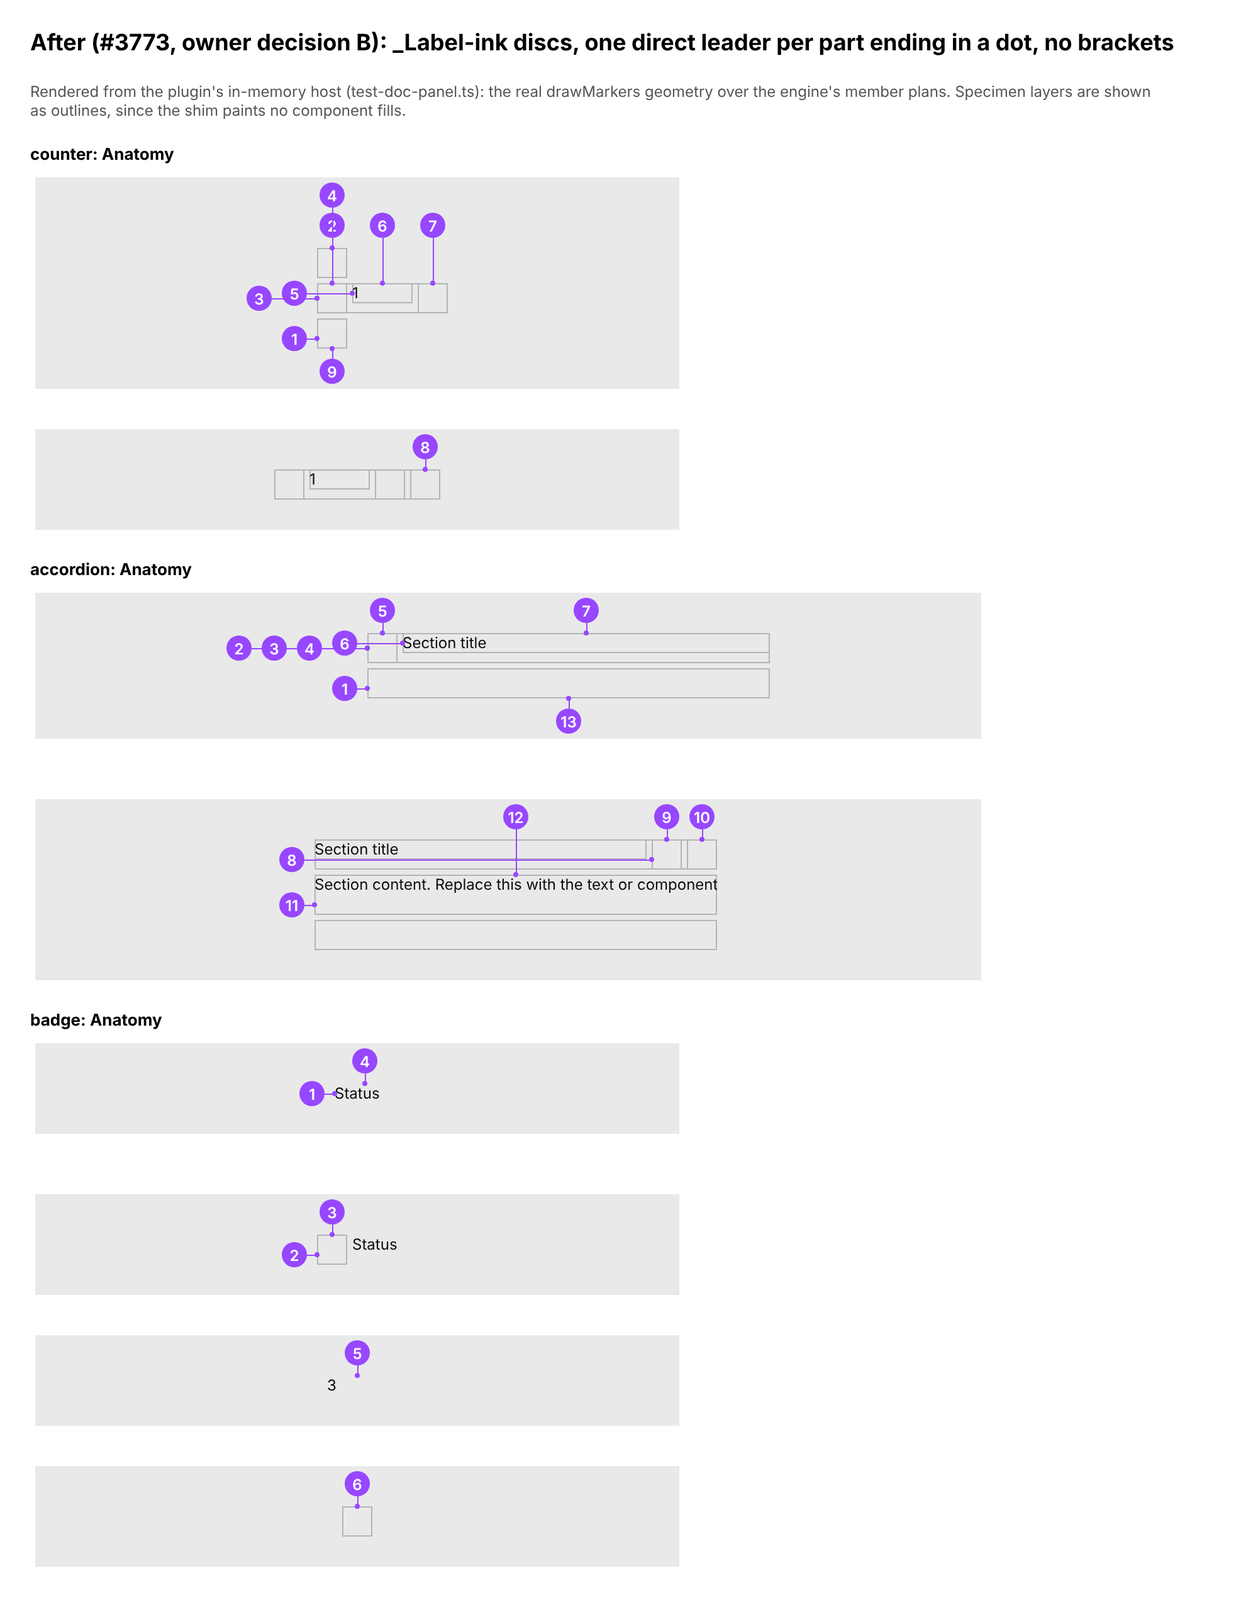
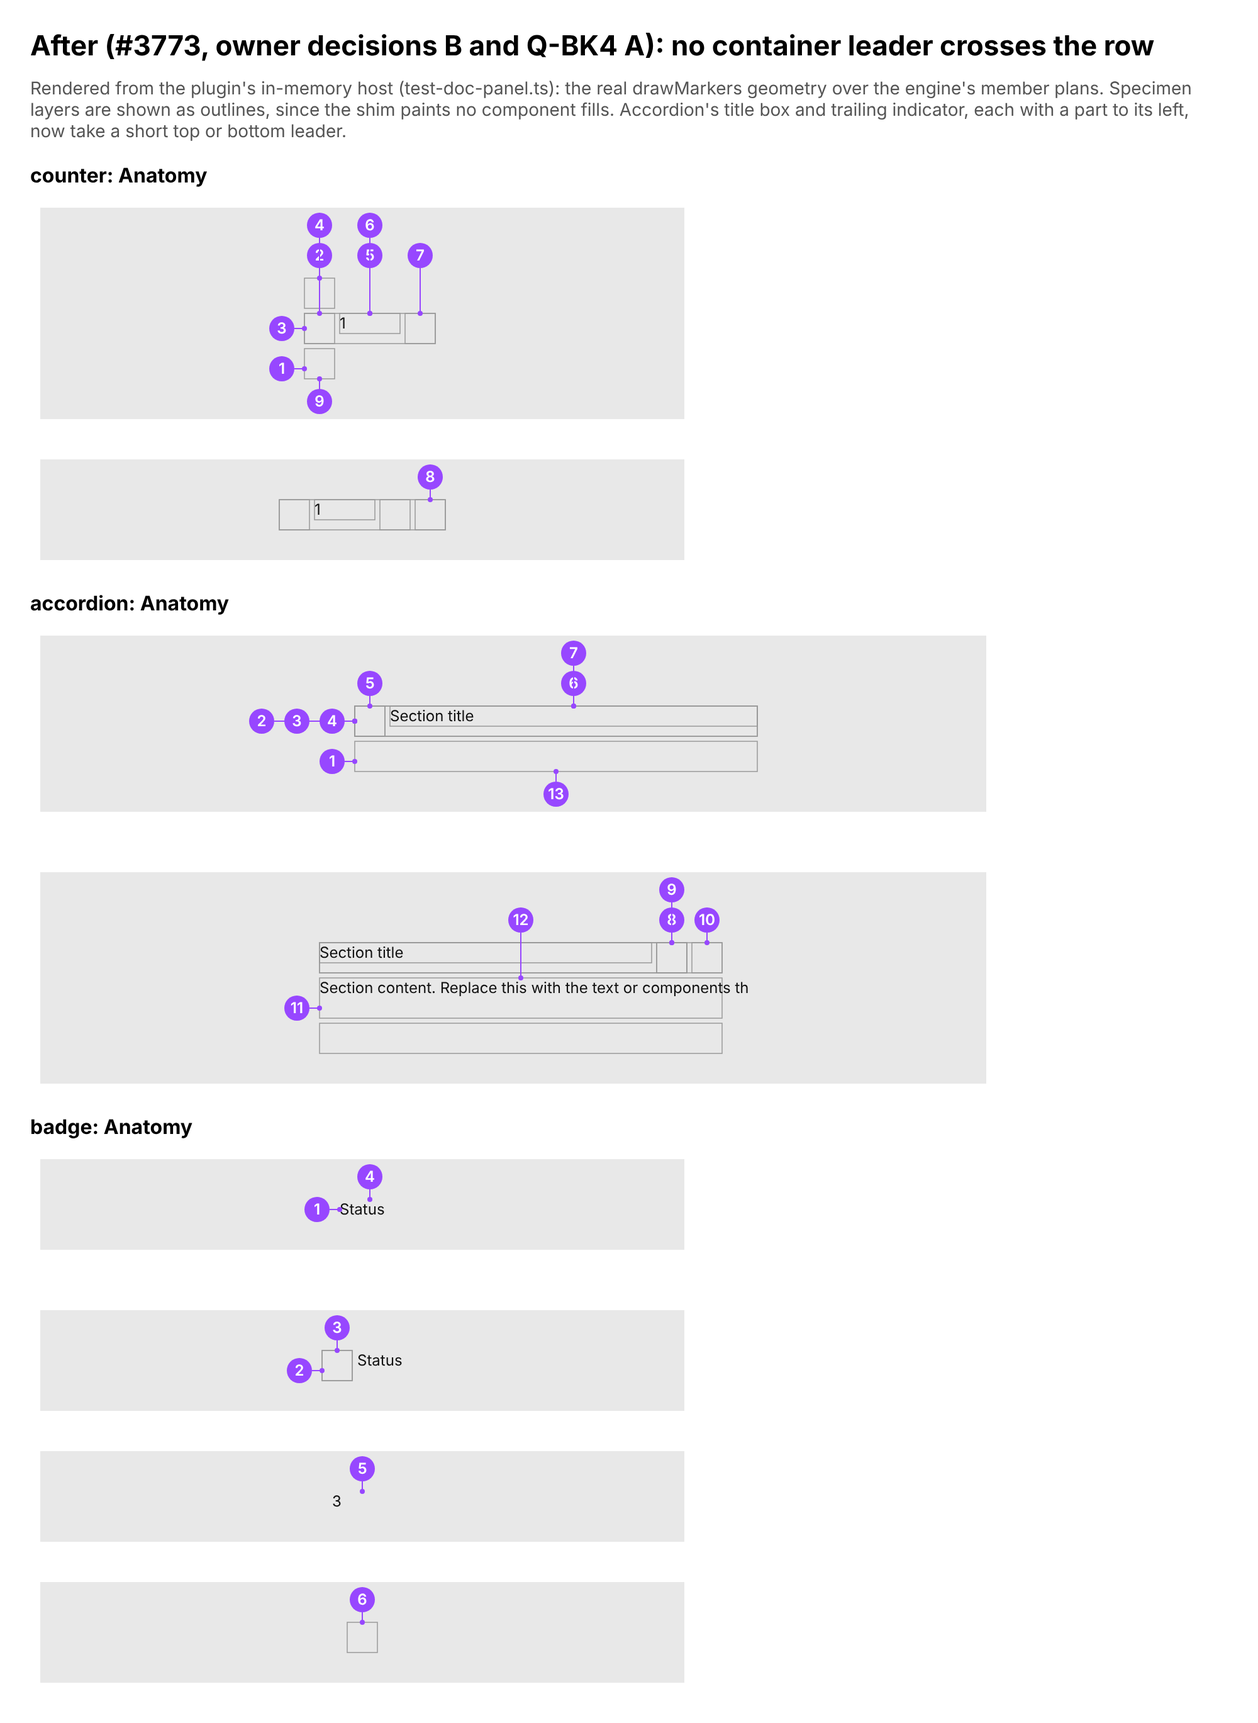
Anatomy markers: a container with a part to its left takes a short top or bottom leader (#3773, Q-BK4 A)
Owner decision Q-BK4 A, point 2: an inner container away from the left
edge, like Accordion's trailing indicator, gets a short top or bottom leader
to its edge rather than a long one from the left gutter across the row.

containerSides (pure, shared by the width rule and the draw) leads a
container in from the left only when no other shown part sits to its left
where the leader lands; otherwise from the top or bottom, the near side
unless a part in its column blocks it and the far side is clear.

New arms: markers/no crossing (no container leader on any lead crosses
another shown part), markers/accordion trailing indicator, and
markers/side row|clear|neither clear (typed by hand). The miss line's
wording is marked APPROVED. The after image is re-rendered.

Claude-Session: https://claude.ai/code/session_01Rufg82c7XVK3UfFtWoNBRk

diff --git a/apps/plugin/test-doc-panel.ts b/apps/plugin/test-doc-panel.ts
@@ -164,7 +164,11 @@
  *                   left column's landings typed by hand (`leftColumns`). Mutation: the slide along the edge removed →
  *                   `markers/left slides`. `markers/blind`: every marker a child of the panel, the set unchanged by the
  *                   draw, the panel unedited after it. Mutations: the marker group appended to its specimen →
- *                   `markers/blind`; the dot's ink bound to a token → every `markers/<def>`.
+ *                   `markers/blind`; the dot's ink bound to a token → every `markers/<def>`. `markers/no crossing`
+ *                   (Q-BK4 A): no container's leader, on any lead, crosses another shown part; `markers/accordion trailing
+ *                   indicator`: the owner's case takes a top or bottom leader; `markers/side …`: `containerSides` typed
+ *                   by hand. Mutations: every container led from the left → `markers/no crossing`, `markers/accordion
+ *                   trailing indicator`; the clear-side fallback removed → `markers/side clear`.
  *   family/related  (#2970 Q5 A) Checkbox's and Buttons' Related lists typed from the approved wireframe; a family named
  *                   twice in one list once. Mutations: the own-family drop removed → `family/related`, `family/related
  *                   buttons`; the de-duplication removed → `family/related once`. `related/…` (#3552 Q-UG3 A): Dialog's and
@@ -184,7 +188,7 @@ import { componentDefs, docSections, MAINTAINER_REGISTER, NAMES_A_TOOL, type Com
 import { applyComponentPlan } from './src/write-components';
 import { SWAP_TARGET } from './src/build-deps';
 import { fixHostMethods, makeShim, type Node } from './component-shim';
-import { anatomyEntry, anatomyMarks, clearOrphanPanels, leftColumns, panelUnedited, codeRuns, docPanelReach, docPanelReaches, drawDocPanel, docPanelDue, leadsPanel, planDocPanel, panelItems, printV2, PANEL_FORMAT, type PanelApi, type PNode } from './src/doc-panel';
+import { anatomyEntry, anatomyMarks, clearOrphanPanels, containerSides, leftColumns, panelUnedited, codeRuns, docPanelReach, docPanelReaches, drawDocPanel, docPanelDue, leadsPanel, planDocPanel, panelItems, printV2, PANEL_FORMAT, type PanelApi, type PNode } from './src/doc-panel';
 import { dueOf, entryFor, readLedger, recordSets, type LedgerEntry } from './src/as-built-ledger';
 import { checkedSetOf } from './src/update-plan';
 import { TAXONOMY } from './src/file-taxonomy';
@@ -958,6 +962,10 @@ section('markers/… — every listed number on a specimen, on its part, by one 
 {
   /** _Label's ink, typed here (#3773, owner decision B), and the end dot's size across. */
   const INK = '#9747FF', DOT = 4;
+  /** Every container leader that runs over another part (#3773, Q-BK4 A), across every check below. */
+  const crossed: string[] = [];
+  /** Every container marked from the top or bottom gutter rather than the left (#3773, Q-BK4 A). */
+  const offLeft: string[] = [];
   const hexOf = (n: N): string => {
     const f = ((n.fills ?? []) as { color?: { r: number; g: number; b: number }; boundVariables?: unknown }[])[0];
     if (!f?.color || f.boundVariables) return 'no literal fill';
@@ -1034,9 +1042,19 @@ section('markers/… — every listed number on a specimen, on its part, by one 
       const B = hit.absoluteBoundingBox!;
       const ex = E.x + E.width / 2, ey = E.y + E.height / 2;
       const within = (v: number, lo: number, hi: number) => v >= lo - 0.5 && v <= hi + 0.5;
-      const into = L.x < B.x + B.width - 0.5 && L.x + L.width > B.x + 0.5 && L.y < B.y + B.height - 0.5 && L.y + L.height > B.y + 0.5;
-      if (into) wrong.push(`${num} ${part.id}: its leader runs over the part`);
-      if (container(part.id)) {
+      const over = (b: { x: number; y: number; width: number; height: number }) => L.x < b.x + b.width - 0.5 && L.x + L.width > b.x + 0.5 && L.y < b.y + b.height - 0.5 && L.y + L.height > b.y + 0.5;
+      if (over(B)) wrong.push(`${num} ${part.id}: its leader runs over the part`);
+      // THE OTHER PARTS ON THIS SPECIMEN (#3773, Q-BK4 A), read off the def's tree: every shown listed part that is neither
+      // this one nor one that holds it (a leader must enter those) nor one it holds.
+      const others = walk(spec).filter((c) => c !== hit && c !== spec && listed.has(c.name) && c.name !== part.id && shown(c, spec)
+        && !ancestors(part.id).includes(c.name) && !below(part.id).includes(c.name));
+      // A container leads in from the left gutter, or, where that would cross the row (Accordion's trailing indicator),
+      // by a short top or bottom leader to its near edge, as a part's: read off where its disc is, and held to the
+      // part's rules below. That no container leader crosses another part is `markers/no crossing`.
+      const fromLeft = container(part.id) && marker.x + marker.width <= spec.absoluteBoundingBox!.x + 0.5;
+      if (container(part.id) && !fromLeft) offLeft.push(`${def.id} ${part.id}`);
+      if (container(part.id)) for (const c of others) if (over(c.absoluteBoundingBox!)) crossed.push(`${def.id} ${num} ${part.id}: its leader crosses ${c.name}`);
+      if (fromLeft) {
         // In from the left gutter to its left edge: the outermost near its bottom corner, an inner one at its middle.
         const outer = !marksOn(spec).some((o) => o !== part.id && container(o) && ancestors(part.id).includes(o));
         const wantY = outer ? B.y + B.height - Math.min(8, B.height / 2) : B.y + B.height / 2;
@@ -1114,6 +1132,11 @@ section('markers/… — every listed number on a specimen, on its part, by one 
     const specs = walk(panelsOn(q)[0]).filter((c) => c.name === 'specimen');
     ok(specs.length >= 3, `markers/extra specimens: Tag's parts take ${specs.length} specimens in its Anatomy and Theming`);
   }
+  ok(!crossed.length, `markers/no crossing: no container's leader, on any lead, crosses another part (#3773, Q-BK4 A)`, crossed.slice(0, 4).join('; '));
+  // The owner's case (Q-BK4 A, point 2): Accordion's trailing indicator, its title to its left, takes a short top or
+  // bottom leader; its header and title row, nothing to their left, still lead in from the left gutter.
+  ok(offLeft.includes('accordion trailingIndicator') && !offLeft.some((x) => /^accordion (container|header|titleRow)$/.test(x)),
+    `markers/accordion trailing indicator: marked from the top or bottom, the containers at the left edge from the left`, offLeft.filter((x) => x.startsWith('accordion ')).join(', '));
 }
 
 /* ── markers: the left gutter, and blind to the set ───────────────────────────────────────────────────── */
@@ -1129,6 +1152,33 @@ section('markers/left and blind — containers share the left column where their
   const dlg = leftColumns([{ path: [], top: 0, height: 156 }, { path: ['header'], top: 0, height: 36 }, { path: ['footer'], top: 132, height: 24 }]);
   ok(show(dlg) === '120@0 18@0 12@0', `markers/left slides: Dialog's root gives way to its footer along its own edge, all in one column (${show(dlg)})`);
   ok(show(leftColumns([{ path: [], top: 0, height: 10 }])) === '5@0', 'markers/left short root: a root under 16 high lands at its middle');
+
+  // WHERE A CONTAINER'S LEADER COMES FROM (#3773, Q-BK4 A), boxes typed by hand. An Accordion-shaped header row: the
+  // title row and header at the left edge lead in from the left; the trailing indicator, its title to its left, from
+  // the top (its middle is in the specimen's top half). A Banner-shaped column: a container with a part to its left and
+  // the title above it in its column takes the bottom, though its middle is in the top half; with a part below it too,
+  // neither side is clear and it keeps the near one.
+  const bx = (x: number, y: number, width: number, height: number) => ({ x, y, width, height });
+  const P = bx(0, 0, 320, 88);
+  const sides = (items: { path: string[]; container: boolean; box: ReturnType<typeof bx> }[], at = P) => containerSides(items, at).map((v) => v ?? '-').join(' ');
+  const row = [
+    { path: [], container: true, box: P }, { path: ['header'], container: true, box: bx(0, 0, 320, 24) },
+    { path: ['header', 'titleRow'], container: true, box: bx(0, 0, 292, 24) },
+    { path: ['header', 'titleRow', 'title'], container: false, box: bx(0, 4, 264, 16) },
+    { path: ['header', 'titleRow', 'trailing'], container: true, box: bx(268, 0, 24, 24) },
+    { path: ['header', 'titleRow', 'trailing', 'glyph'], container: false, box: bx(272, 4, 16, 16) },
+  ];
+  ok(sides(row) === 'left left left - top -', `markers/side row: the root, header and title row from the left, the trailing indicator from the top (${sides(row)})`);
+  const col = (below: boolean) => [
+    { path: ['glyph'], container: false, box: bx(0, 0, 24, 32) },
+    { path: ['content', 'title'], container: false, box: bx(28, 0, 292, 16) },
+    { path: ['content', 'body'], container: true, box: bx(28, 18, 292, 16) },
+    { path: ['content', 'body', 'text'], container: false, box: bx(28, 18, 292, 16) },
+    ...(below ? [{ path: ['content', 'rich'], container: false, box: bx(28, 40, 292, 24) }] : []),
+  ];
+  // The glyph (0–32) spans the body's landing band (at 26), so its leader can't come from the left; the specimen is 88 high.
+  ok(sides(col(false)) === '- - bottom -', `markers/side clear: the title above it in its column, the body takes the bottom gutter (${sides(col(false))})`);
+  ok(sides(col(true)) === '- - top - -', `markers/side neither clear: blocked above and below, the body keeps its near side, the top (${sides(col(true))})`);
 
   // BLIND TO THE SET (#3773): the markers, their leaders and dots are the panel's own children, never inside the set or a
   // specimen, so the set's hand-edit check and its as-built record, which read the set, never see them; and the panel

diff --git a/apps/plugin/src/doc-panel.ts b/apps/plugin/src/doc-panel.ts
@@ -1008,15 +1008,47 @@ export const leftColumns = (items: readonly { path: readonly string[]; top: numb
   }
   return out;
 };
-/** How many left columns a member's containers take (`leftColumns`), read off its layers as the host lays them out. */
-const leftColumnsOf = (member: PNode, marks: readonly AnatomyMark[]): number => {
-  const M = boxOn(member);
-  const items = marks.filter((m) => m.container).flatMap((m) => {
-    const n = locate(member, m.path);
-    if (!n) return [];
-    const B = n === member ? M : boxOn(n);
-    return [{ path: m.path, top: B.y - M.y, height: B.height }];
+/**
+ * WHERE EACH CONTAINER'S LEADER COMES FROM (#3773, owner decision Q-BK4 A, point 2). `items` are the listed parts the
+ * specimen shows, marked on it or not, with their boxes. A container's leader comes in from the left gutter only when no
+ * other part sits to its left where the leader lands (from its middle down to `MARK_CORNER` above its bottom, the band
+ * `leftColumns` lands in), apart from the containers that hold it: those the leader must enter. Otherwise, as Accordion's trailing indicator with its title to its left, a leader from the gutter would cross the row,
+ * so the container is marked as a part is, by a short leader from the top or bottom gutter to its near edge at its middle
+ * across: the side its middle is nearer (`P`, the specimen's box), unless a part between it and that gutter would be
+ * crossed and the other side is clear. Pure on the boxes, so the width rule and the draw decide alike. Returns, in the
+ * order given, each container's side, and null for a part that holds no other.
+ */
+export const containerSides = (items: readonly { path: readonly string[]; container: boolean; box: Box }[], P: Box): ('left' | 'top' | 'bottom' | null)[] => {
+  const holds = (o: readonly string[], l: readonly string[]): boolean => o.length < l.length && o.every((s, i) => l[i] === s);
+  return items.map((it) => {
+    if (!it.container) return null;
+    const B = it.box;
+    const others = items.filter((o) => o !== it && !holds(o.path, it.path) && !holds(it.path, o.path));
+    const lo = B.y + B.height / 2, hi = Math.max(lo, B.y + B.height - Math.min(MARK_CORNER, B.height / 2));
+    if (!others.some((o) => o.box.x < B.x - 0.5 && o.box.y < hi + LEADER / 2 && o.box.y + o.box.height > lo - LEADER / 2)) return 'left';
+    const cx = B.x + B.width / 2;
+    const inColumn = others.filter((o) => o.box.x < cx + LEADER / 2 - 0.01 && o.box.x + o.box.width > cx - LEADER / 2 + 0.01);
+    const clear = { top: !inColumn.some((o) => o.box.y < B.y - 0.5), bottom: !inColumn.some((o) => o.box.y + o.box.height > B.y + B.height + 0.5) };
+    const near: 'top' | 'bottom' = B.y + B.height / 2 <= P.y + P.height / 2 ? 'top' : 'bottom';
+    const far: 'top' | 'bottom' = near === 'top' ? 'bottom' : 'top';
+    return clear[near] || !clear[far] ? near : far;
   });
+};
+/** The listed parts a specimen (or its member) shows, with their boxes: each marked here, and each other mark whose part
+ *  is shown, the parts a leader could cross (`containerSides`). */
+const shownParts = (root: PNode, here: readonly AnatomyMark[], every: readonly AnatomyMark[]): { mark: AnatomyMark; here: boolean; layer: PNode; box: Box }[] =>
+  every.flatMap((m) => {
+    const n = locate(root, m.path);
+    const on = here.includes(m);
+    if (!n || (!on && !chain(n, root).every((q) => q.visible !== false))) return [];
+    return [{ mark: m, here: on, layer: n, box: boxOn(n) }];
+  });
+/** How many left columns a member's containers take (`leftColumns`), read off its layers as the host lays them out. */
+const leftColumnsOf = (member: PNode, marks: readonly AnatomyMark[], every: readonly AnatomyMark[] = marks): number => {
+  const M = boxOn(member);
+  const found = shownParts(member, marks, every);
+  const sides = containerSides(found.map((f) => ({ path: f.mark.path, container: f.mark.container, box: f.box })), M);
+  const items = found.filter((f, k) => f.here && sides[k] === 'left').map((f) => ({ path: f.mark.path, top: f.box.y - M.y, height: f.box.height }));
   return items.length ? Math.max(...leftColumns(items).map((c) => c.column)) + 1 : 0;
 };
 /** The stage a specimen `w` wide needs: its padding on the right, and on the left its padding or, when the specimen
@@ -1060,7 +1092,7 @@ export const panelLayout = (set: PNode, def: ComponentDef | undefined = componen
   const w0 = (set.children ?? [])[0]?.width ?? 0;
   const anatomy = def?.anatomy ? docSections(def).sections.find((s) => s.id === 'anatomy') : undefined;
   const marks = anatomy && anatomy.id === 'anatomy' ? anatomyMarks(def!, anatomy.parts.map((p) => p.id)) : [];
-  const stages = anatomyMembers(set, marks).map((a) => stageFor(a.member.width ?? 0, leftColumnsOf(a.member, a.marks)));
+  const stages = anatomyMembers(set, marks).map((a) => stageFor(a.member.width ?? 0, leftColumnsOf(a.member, a.marks, marks)));
   const row = 2 * stageFor(w0, 0) + MODE_GAP;
   const stack = row + 2 * PANEL_PAD >= THEMING_ROW_MAX;
   return { width: Math.ceil(Math.max(PANEL_WIDTH - 2 * PANEL_PAD, stageFor(w0, 0), ...stages, stack ? 0 : row) + 2 * PANEL_PAD), stack };
@@ -1366,8 +1398,9 @@ export const drawDocPanel = async (
    * top or bottom gutter: above when its middle is in the specimen's top half, else below, at its middle across, the
    * leader stopping at its near edge. A container (a part that holds another marked part, the root among them) is marked
    * in the left gutter, its leader coming in to its left edge: the outermost near its bottom corner (`MARK_CORNER`), an
-   * inner one at its middle. No brackets. A marker that would touch another on the same side moves one tier out, and the
-   * stage's padding grows to hold every tier.
+   * inner one at its middle; one with a marked part to its left across its height is marked from the top or bottom
+   * gutter as a part is, so no leader crosses the row (`leadsLeft`, Q-BK4 A). No brackets. A marker that would touch
+   * another on the same side moves one tier out, and the stage's padding grows to hold every tier.
    *
    * Each marker and its lines are one frame, `part <n>`, a child of the panel: never inside the set or a specimen, so the
    * set's hand-edit check and its as-built record never read it, and the panel's print reads it as drawn, every fill a
@@ -1375,7 +1408,8 @@ export const drawDocPanel = async (
    */
   const drawMarkers = async (): Promise<number> => {
     const rect = boxOn;
-    // The numeral's face: Inter Semi Bold, else Regular. A host with neither draws each disc without its numeral.
+    // The numeral's face: Inter Semi Bold, else Regular. A host with neither draws each disc without its numeral. The
+    // miss line's wording is APPROVED (owner decision Q-BK4 A, 2026-11-17).
     let face: { family: string; style: string } | null = null;
     const discs = anatomy.reduce((k, a) => k + a.marks.length, 0);
     if (discs) {
@@ -1439,14 +1473,18 @@ export const drawDocPanel = async (
           if (!row.some(([a, b]) => lo < b + MARK_SEP && a < hi + MARK_SEP)) { row.push([lo, hi]); return t; }
         }
       };
-      // The containers in the left gutter (`leftColumns`), placed as the width rule placed them.
-      const boxes = laid.filter((x) => x.mark.container);
+      // The containers in the left gutter (`leadsLeft`, `leftColumns`), placed as the width rule placed them. A container
+      // with a marked part to its left is marked from the top or bottom, as a part is (#3773, Q-BK4 A).
+      const seen = shownParts(spec, laid.map((l) => l.mark), every.map((l) => l.mark));
+      const sides = containerSides(seen.map((f) => ({ path: f.mark.path, container: f.mark.container, box: f.box })), P);
+      const sideOf = (l: Laid) => sides[seen.findIndex((f) => f.mark === l.mark)] ?? null;
+      const boxes = laid.filter((l) => sideOf(l) === 'left');
       leftColumns(boxes.map((l) => { const B = l.part === spec ? P : rect(l.part); return { path: l.mark.path, top: B.y - P.y, height: B.height }; }), mh)
         .forEach((c, k) => { boxes[k].side = 'left'; boxes[k].dy = c.dy; boxes[k].tier = c.column; });
-      for (const l of laid.filter((x) => !x.mark.container)) {
+      for (const l of laid.filter((x) => sideOf(x) !== 'left')) {
         const B = rect(l.part);
         const cx = B.x + B.width / 2;
-        l.side = B.y + B.height / 2 <= P.y + P.height / 2 ? 'top' : 'bottom';
+        l.side = sideOf(l) ?? (B.y + B.height / 2 <= P.y + P.height / 2 ? 'top' : 'bottom');
         l.tier = tier(l.side, cx - mw / 2, cx + mw / 2);
       }
       if (!stage) continue;

diff --git a/docs/progress/pending/claude-3773-anatomy-leaders.md b/docs/progress/pending/claude-3773-anatomy-leaders.md
@@ -5,7 +5,9 @@ decision was first recorded as C (B's geometry plus a white halo and a white rin
 **B, with no halo and no ring**. This builds the revised B:
 - one leader per part, containers included, in `_Label`'s literal #9747FF, ending in a 4px dot on the part's edge;
 - a container's leader comes in from the left gutter to its left edge, the outermost 8px above its bottom corner and an
-  inner one at its middle;
+  inner one at its middle. A container with a part to its left where that leader would land (Accordion's title box and
+  trailing indicator) takes a short top or bottom leader to its edge instead, so no leader crosses the row (owner
+  decision Q-BK4 A, point 2; `containerSides`, held by `markers/no crossing`);
 - each marker is a filled #9747FF disc with a white numeral (Inter Semi Bold 12), drawn by the panel itself, not a Badge
   instance;
 - `PANEL_FORMAT` 7 → 8, so each drawn panel is due once on the next Update.
@@ -26,8 +28,10 @@ leading indicator, which share one left edge.
 check and its as-built record never read them. Every fill is a literal, so the panel's print reads them as drawn.
 `markers/blind` holds this.
 
-**Open.** These are for the owner (on the PR):
-- an inner container away from the left edge has a leader that crosses the content to its left (Accordion's trailing
-  indicator);
-- whether Anatomy ever goes on a dark stage, and the numeral on a #E0C7FF disc if it does. No Anatomy specimen pins a
-  mode today, so no dark ink is built.
+**Owner decisions (Q-BK4 A, 2026-11-17).** B is confirmed, with no halo and no ring. An inner container away from the
+left edge takes a short top or bottom leader (built). Nested containers on one edge keep a column each. The unused
+Part-marker variant is kept. The miss line "Inter Semi Bold unavailable for the part markers: used Inter Regular" is
+APPROVED.
+
+**Deferred (Q-BK4 A, point 4).** A dark stage, and the numeral on a #E0C7FF disc, wait until an Anatomy specimen can
+land on one. None pins a mode today, so no dark ink is built.
